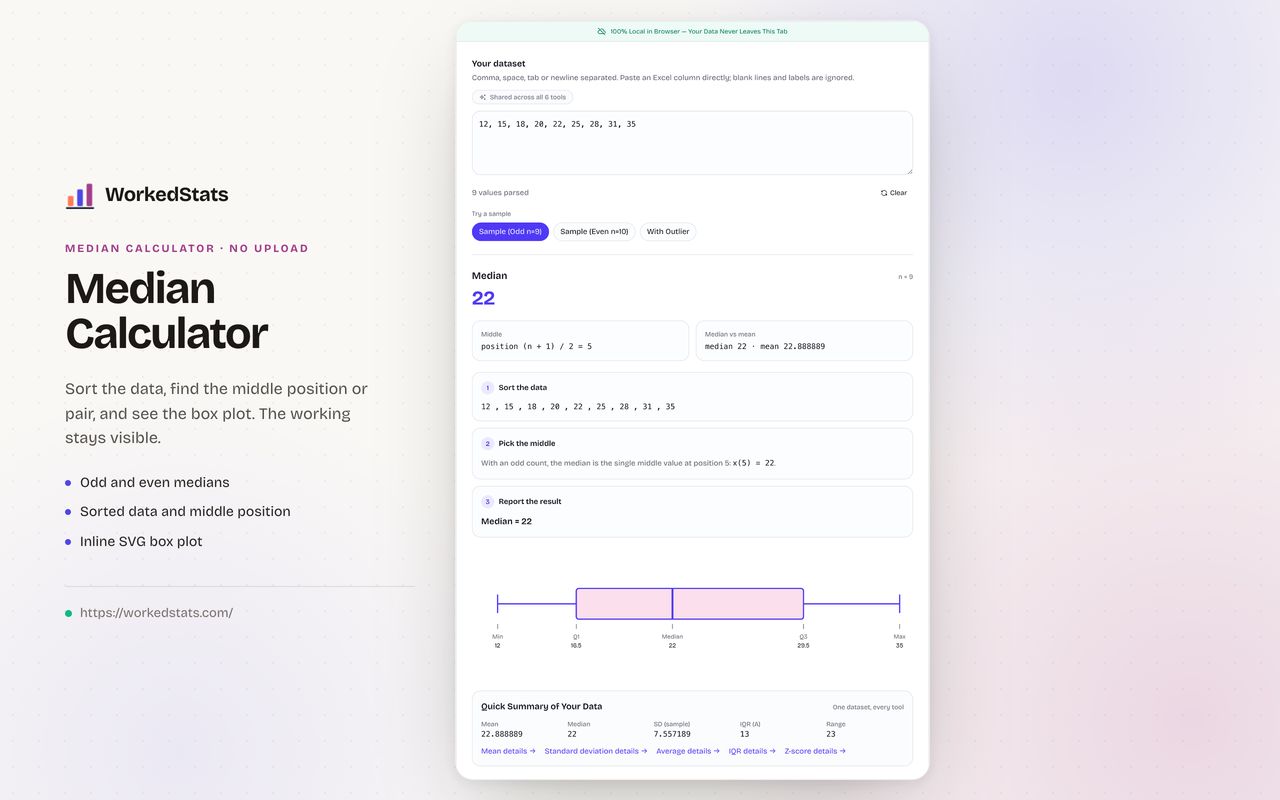
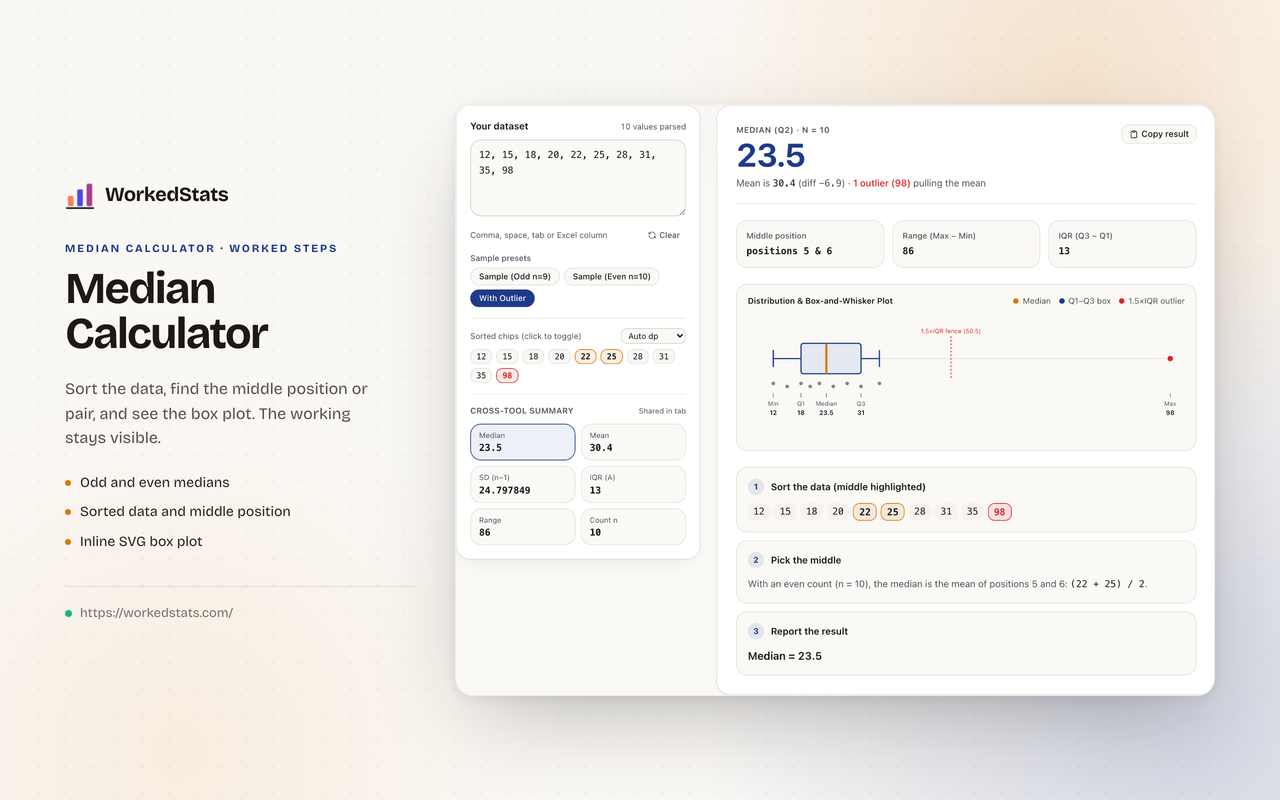
docs: refresh screenshots and notes for editorial workbench redesign

diff --git a/README.md b/README.md
@@ -11,9 +11,9 @@
     <a href="https://workedstats.com/tools/z-score-calculator">Z-Score</a>
   </p>
   <p>
-    <img alt="100% local processing" src="https://img.shields.io/badge/processing-100%25%20local-10b981" />
-    <img alt="No sign-up" src="https://img.shields.io/badge/sign--up-not%20required-4f46e5" />
-    <img alt="No chart library" src="https://img.shields.io/badge/charts-inline%20SVG-a23e8c" />
+    <img alt="Worked steps" src="https://img.shields.io/badge/output-worked%20steps-1e3a8a" />
+    <img alt="Session shared" src="https://img.shields.io/badge/dataset-session%20shared-d97706" />
+    <img alt="Inline SVG charts" src="https://img.shields.io/badge/charts-inline%20SVG-475569" />
   </p>
 </div>
 
@@ -34,14 +34,15 @@ The six pages share one dataset through `sessionStorage`. Paste a list once, the
 
 ## Features
 
-- **One dataset across six tools** — the list lives in `sessionStorage`, so the mean, SD, IQR and z-score pages all see the same values. Three presets cover odd n, even n and an outlier.
-- **Worked steps, not only answers** — sorted data, formula substitution and the final result are rendered for every calculator.
-- **A real deviation table** — [Standard Deviation Calculator](https://workedstats.com/tools/standard-deviation-calculator) shows each `xᵢ`, `xᵢ − x̄` and `(xᵢ − x̄)²`, with the sum row and both SD formulas.
-- **The quartile argument is visible** — [Interquartile Range (IQR) Calculator](https://workedstats.com/tools/interquartile-range) computes exclusive, Tukey inclusive and linear type-7 Q1/Q3 side by side, then draws the active convention's box plot and outlier dots.
+- **Two-column sticky workbench** — the dataset input, presets, decimal precision selector, interactive sorted value chips and cross-tool summary stay pinned on the left while the result, chart and worked steps update live on the right.
+- **One dataset across six tools** — the list lives in `sessionStorage` (pre-loaded with a starter outlier sample on a fresh tab), so the mean, SD, IQR and z-score pages all see the same values. Click any sorted chip to temporarily exclude or restore a value and watch how outliers move the mean vs the median.
+- **Worked steps, not only answers** — sorted data with middle positions highlighted, formula substitution and the final result are rendered for every calculator.
+- **A real deviation table** — [Standard Deviation Calculator](https://workedstats.com/tools/standard-deviation-calculator) shows each `xᵢ`, `xᵢ − x̄` and `(xᵢ − x̄)²` (sortable by value or largest deviation), with the sum row and both SD formulas.
+- **The quartile argument is visible** — [Interquartile Range (IQR) Calculator](https://workedstats.com/tools/interquartile-range) computes exclusive, Tukey inclusive and linear type-7 Q1/Q3 side by side, then draws the active convention's box plot, 1.5 × IQR fence lines and outlier dots.
 - **Average is a family** — [Average Calculator](https://workedstats.com/tools/average-calculator) adds geometric mean, harmonic mean, midrange and mode to the arithmetic mean, while the Mean page stays focused on x̄.
-- **Z-score with a picture** — [Z-Score Calculator](https://workedstats.com/tools/z-score-calculator) uses an Abramowitz & Stegun normal CDF and fills the selected tail area in inline SVG.
+- **Z-score with a picture** — [Z-Score Calculator](https://workedstats.com/tools/z-score-calculator) uses an Abramowitz & Stegun normal CDF, keeps single-value `x, μ, σ` mode available even when no dataset is loaded, and fills the selected tail area in inline SVG with `±1σ / ±2σ` guides.
 - **No chart library** — the box plot and bell curve are plain SVG elements in the DOM.
-- **No upload, no account** — parsing, statistics and drawing happen in the tab.
+- **Browser-only runtime** — parsing, statistics and drawing happen in the tab with no account required.
 
 ## Screenshots
 

diff --git a/ARCHITECTURE.md b/ARCHITECTURE.md
@@ -60,11 +60,13 @@ s = √((Σxᵢ² − n·x̄²) / (n − 1))          computational
 
 The sample/population toggle changes the denominator from `n − 1` to `N`. The raw sum of squares does not change; only the variance and SD do. The APA button copies `M = …, SD = …` using the sample SD, because that is the usual reporting convention.
 
-## Shared dataset
+## Shared dataset & interactive workbench
 
-The six pages read and write the same `sessionStorage` key. The parser extracts numeric tokens and ignores non-numeric text, so a pasted Excel column works without a header cleanup step. The presets are data, not screenshots: odd `n = 9`, even `n = 10`, and a ten-value list with a 98 outlier.
+The six pages read and write the same `sessionStorage` key. On a fresh tab with no stored dataset, the workbench pre-loads the ten-value outlier preset (`12, 15, 18, 20, 22, 25, 28, 31, 35, 98`) so visitors immediately see a populated box plot and worked steps; clearing the textarea persists an empty string across navigation. The parser extracts numeric tokens and ignores non-numeric text, so a pasted Excel column works without a header cleanup step.
 
-This is a UX choice with a statistical consequence. Comparing the mean with the median, then checking the IQR, then standardizing a value is one investigation. Keeping the dataset in the tab removes the retyping that would otherwise break it into four unrelated visits.
+On desktop viewports the input rail stays sticky beside the result canvas, letting users toggle individual sorted token chips to exclude or restore outliers and switch decimal precision (`Auto`, `2`, `4`) without scrolling away from the charts or formulas.
+
+This is a UX choice with a statistical consequence. Comparing the mean with the median, then checking the IQR, then testing how removing `98` changes every metric is one investigation. Keeping the dataset in the tab removes the retyping that would otherwise break it into four unrelated visits.
 
 ## SVG instead of a chart library
 
